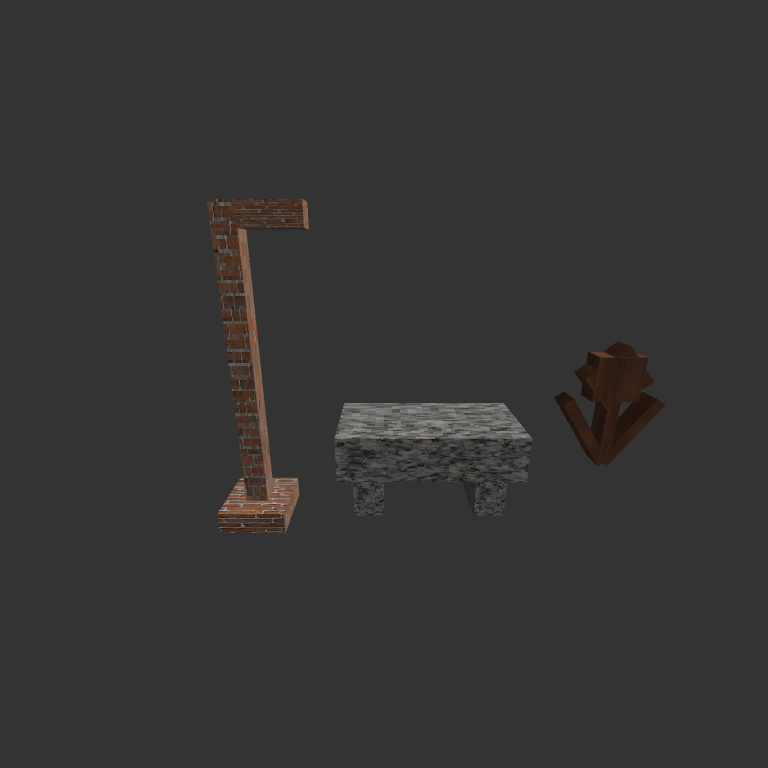
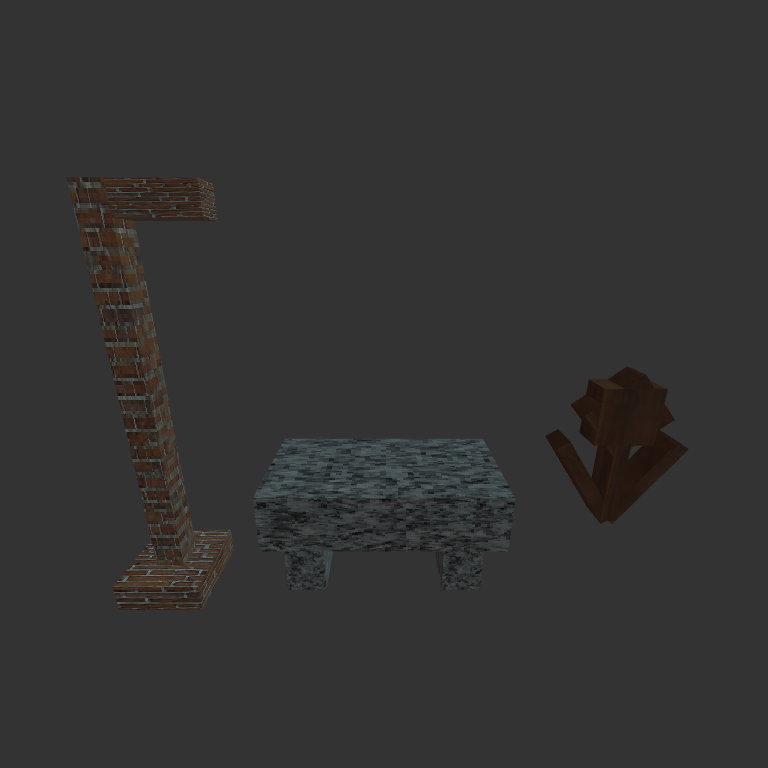
Slight part 3 lighting change and updated report images

Changed region(s): [[0.0938, 0.2188, 0.9062, 0.8125], [0.4062, 0.7188, 0.4375, 0.75]]

diff --git a/Part3/object-shader.js b/Part3/object-shader.js
@@ -28,7 +28,7 @@ varying vec3 vModelNormal;
 void main() {
    gl_Position = uPerspectiveMatrix * uViewMatrix * uModelMatrix * aPosition;
 
-   highp vec3 ambientLight = vec3(0.7,0.7,0.7);
+   highp vec3 ambientLight = vec3(0.9,0.9,0.9);
    highp vec3 directionalColor = vec3(0.655,0.745,0.910);
    highp vec3 directionalVector = normalize(vec3(0.85, 0.8, 0.75));
    highp vec4 transformedNormal = normalize(uNormalMatrix * aNormal);
